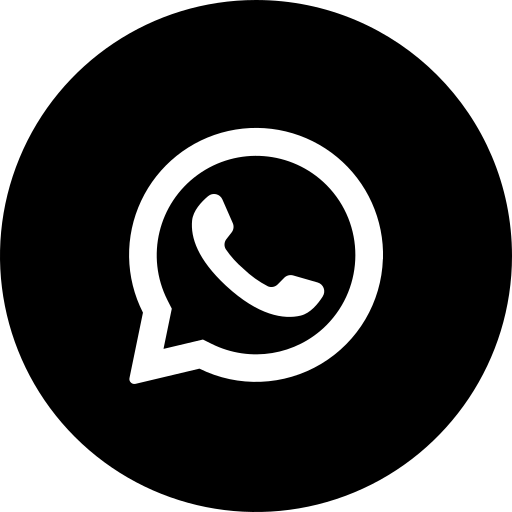
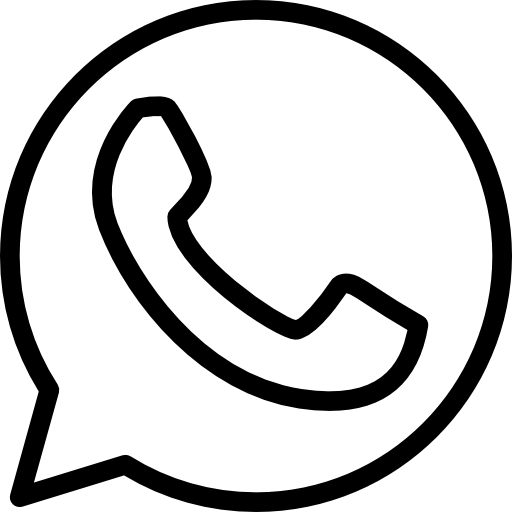
sobre mim reajustado, retirado linha de link, e adicionado icones de link

diff --git a/assets/css/styles.css b/assets/css/styles.css
@@ -1,6 +1,6 @@
 :root{
     --border-radius: 25px;
-    --border: yellow;
+    --border: #fff;
 }
 @import url("rolagem.css");
 
@@ -57,6 +57,7 @@ body{
 }
 .sobre p{
     text-align: justify;
+    font-size: 1.5rem;
 }
 .sobre :nth-child(2){
     padding-bottom: 1rem;
@@ -67,43 +68,42 @@ hr{
 }
 .contatos{
     text-align: center;
-    width: 100%;
+    /* width: 100%; */
 }
 .redes-sociais{
     margin-top: 1rem;
     display: flex;
-    flex-direction: column;
-    gap: 1rem;
-    align-items: center;
+    flex-direction: row;
+    gap: 2rem;
+    /* align-items: center; */
+    justify-content: center;
     max-height: 18rem;
     overflow-y: auto;
 }
 .redes-sociais li a{
     width: 22rem;
     height: 3rem;
-    display: block;
-    color: #000;
+    color: #f00;
     align-items: center;
     padding: .3rem;
     font-size: 1.6rem;
     border-radius: var(--border-radius);
     transition: all .5s ease-out;
 }
-/* .redes-sociais .linkdin{
-    display: block;
-    width: 22rem;
-    height: 4rem;
-    background-color: #00aaffcd;
-} */
+
 .redes-sociais .insta{
+    width: 5rem;
+    height: 5rem;
     display: block;
     /* background-image: linear-gradient(#c96c01, #6c007a); */
-    background-color: #f55308cd;
+    /* background-color: #f55308cd; */
 }
 .redes-sociais .whats{
+    width: 5rem;
+    height: 5rem;
     display: block;
     /* background-image: linear-gradient(#1aec2fdd, #147224); */
-    background-color: #1aec2fcd;
+    /* background-color: #1aec2fcd; */
 }
 
 /* || Efeitos de botoes, links */

diff --git a/index.html b/index.html
@@ -32,18 +32,15 @@
         <hr>
 
         <div class="contatos">
-            <h3>Minhas redes</h3>
+            <!-- <h3>Minhas redes</h3> -->
             
             <div class="minhas-redes">
                 <ul class="redes-sociais">
-                    <!-- <li>
-                        <a href="#" target="_blank" class="linkdin">LinkdIn</a>
-                    </li> -->
                     <li>
-                        <a href="https://www.instagram.com/murilot.g" target="_blank" class="insta">Instagram</a>
+                        <a href="https://www.instagram.com/murilot.g" target="_blank" class="insta"><img src="./assets/icones/instagram.png" alt="instagram" width="50px"></a>
                     </li>
                     <li>
-                        <a href="https://api.whatsapp.com/send?phone=5564999045555" target="_blank" class="whats">Whatsapp</a>
+                        <a href="https://api.whatsapp.com/send?phone=5564999045555" target="_blank" class="whats"><img src="./assets/icones/whatsapp.png" alt="whatsapp" width="50px"></a>
                     </li>
                 </ul>
             </div>
